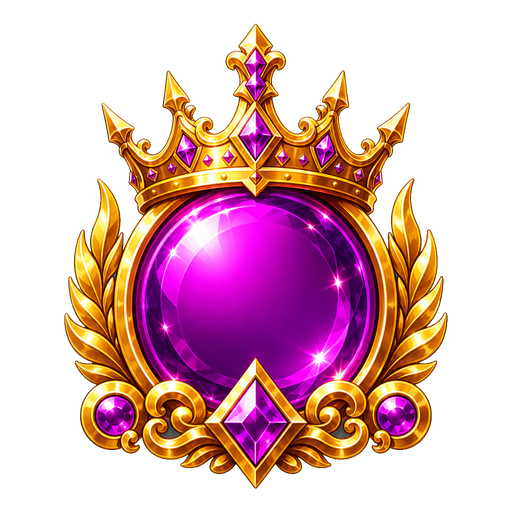
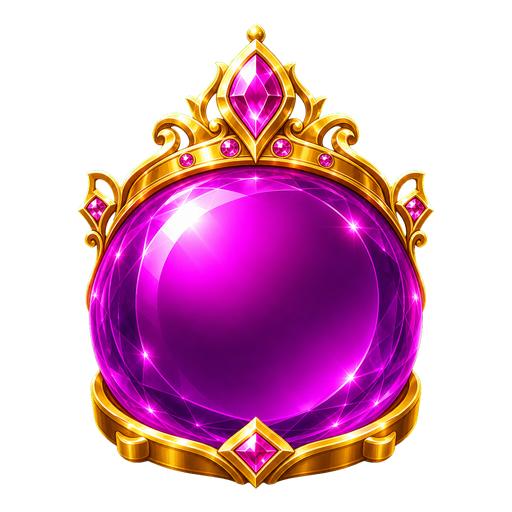
Update multiplier art and add x200

diff --git a/script.js b/script.js
@@ -4,12 +4,12 @@ const SLOT_COUNT = 3;
 const MULTIPLIER_SIZE = 2;
 const MULTIPLIER_SIZES = [1, 2];
 const MULTIPLIER_COLS = [0, 2, 4];
-const SYMBOL_VERSION = "symbol-rules-56-multiplier-bounds";
+const SYMBOL_VERSION = "symbol-rules-57-multiplier-art-200";
 const PERF_ENABLED = new URLSearchParams(window.location.search).has("perf");
 const SPECIAL_METER_TARGET = 15;
 const BET_STEPS = [20, 50, 100, 200, 500];
 const CANDIES = ["red", "blue", "green", "orange", "purple"];
-const MULTIPLIER_VALUES = [5, 10, 20, 30, 50, 100];
+const MULTIPLIER_VALUES = [5, 10, 20, 30, 50, 100, 200];
 const COLLECTION_SLOT_ITEM_WEIGHTS = [
   { kind: "candyClear", type: "red", weight: 5 },
   { kind: "candyClear", type: "blue", weight: 5 },
@@ -21,7 +21,8 @@ const COLLECTION_SLOT_ITEM_WEIGHTS = [
   { kind: "multiplier", value: 20, weight: 4.167 },
   { kind: "multiplier", value: 30, weight: 1.786 },
   { kind: "multiplier", value: 50, weight: 0.893 },
-  { kind: "multiplier", value: 100, weight: 0.298 },
+  { kind: "multiplier", value: 100, weight: 0.149 },
+  { kind: "multiplier", value: 200, weight: 0.149 },
   { kind: "flame", weight: 50 },
 ];
 const FLAME_PATTERN_WEIGHTS = [
@@ -38,7 +39,8 @@ const MULTIPLIER_VALUE_WEIGHTS = [
   { value: 20, weight: 22 },
   { value: 30, weight: 14 },
   { value: 50, weight: 8 },
-  { value: 100, weight: 4 },
+  { value: 100, weight: 2 },
+  { value: 200, weight: 2 },
 ];
 const MULTIPLIER_SIZE_WEIGHTS = [
   { size: 1, weight: 50 },
@@ -308,6 +310,7 @@ function candyAsset(type) {
 }
 
 function multiplierAsset(value) {
+  if (value >= 200) return `assets/symbols/multiplier-relic-x200.png?v=${SYMBOL_VERSION}`;
   if (value >= 100) return `assets/symbols/multiplier-relic-x100.png?v=${SYMBOL_VERSION}`;
   if (value >= 50) return `assets/symbols/multiplier-relic-x50.png?v=${SYMBOL_VERSION}`;
   if (value >= 30) return `assets/symbols/multiplier-relic-x30.png?v=${SYMBOL_VERSION}`;
@@ -481,6 +484,11 @@ function randomMultiplierSize() {
   return weightedPick(MULTIPLIER_SIZE_WEIGHTS).size;
 }
 
+function multiplierSizeForValue(value, flags = {}) {
+  if (value >= 100) return 2;
+  return flags.size || randomMultiplierSize();
+}
+
 function multiplierAnchorRowWeights(size) {
   return size === 1 ? MULTIPLIER_ANCHOR_ROW_WEIGHTS_1X1 : MULTIPLIER_ANCHOR_ROW_WEIGHTS_2X2;
 }
@@ -510,7 +518,7 @@ function canPlaceMultiplierAt(row, col, multipliers = state.multipliers, ignore 
 }
 
 function createMultiplier(value, row, col, flags = {}) {
-  const size = flags.size || randomMultiplierSize();
+  const size = multiplierSizeForValue(value, flags);
   return {
     id: `m-${Date.now().toString(36)}-${Math.random().toString(36).slice(2, 8)}`,
     kind: "multiplier",
@@ -546,10 +554,11 @@ function addMultipliers(board) {
   const multipliers = [];
 
   while (multipliers.length < count) {
-    const size = randomMultiplierSize();
+    const value = weightedMultiplier().value;
+    const size = multiplierSizeForValue(value);
     const point = pickMultiplierSpawnCell(board, (cell) => canPlaceMultiplierAt(cell.row, cell.col, multipliers, null, board, size), size);
     if (!point) break;
-    const multiplier = createMultiplier(weightedMultiplier().value, point.row, point.col, { size });
+    const multiplier = createMultiplier(value, point.row, point.col, { size });
     multipliers.push(multiplier);
     clearMultiplierFootprint(board, multiplier);
   }
@@ -2835,7 +2844,7 @@ async function playFlameEvent() {
 }
 
 function multiplierSpawnPoint(value = 10, flags = {}) {
-  const size = flags.size || randomMultiplierSize();
+  const size = multiplierSizeForValue(value, flags);
   const point = pickMultiplierSpawnCell(state.board, (cell) => canPlaceMultiplierAt(cell.row, cell.col, state.multipliers, null, state.board, size), size);
   return point ? createMultiplier(value, point.row, point.col, { ...flags, size }) : null;
 }
